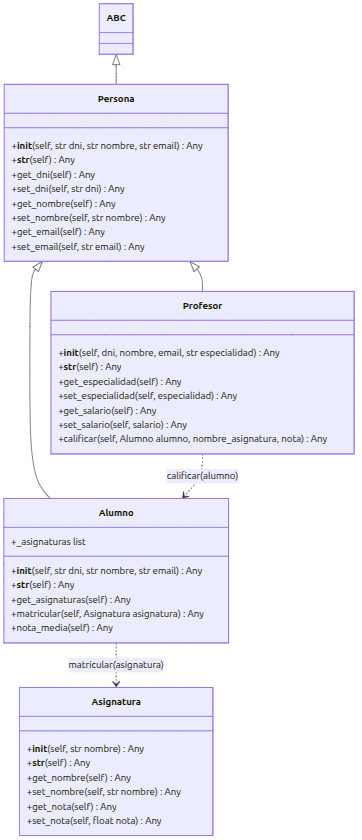
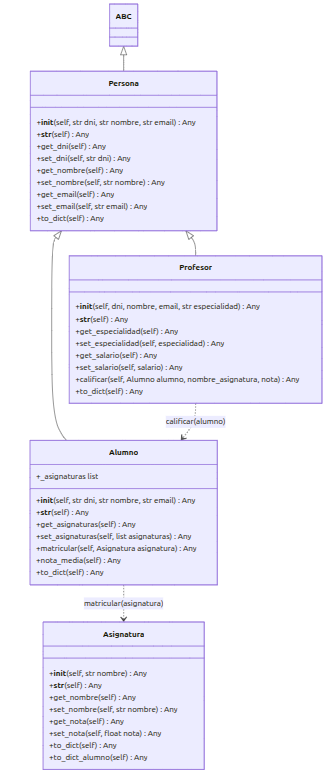
documentar aplicacion

Changed region(s): [[0.0, 0.0, 0.991, 1.0]]

diff --git a/README.md b/README.md
@@ -1,45 +1,93 @@
 # Sistema de Gestión de un Centro Educativo
 
 ## Descripción del proyecto
-Esta aplicación es un Sistema de Gestión de un Centro Educativo desarrollado en Python. Su objetivo principal es modelar de forma progresiva la lógica de negocio de una institución escolar, permitiendo administrar tanto al personal docente como al alumnado.
+Esta aplicación es un **Sistema de Gestión de un Centro Educativo** desarrollado en **Python**. Su objetivo principal es modelar de forma progresiva la lógica de negocio de una institución escolar, permitiendo administrar tanto al personal docente como al alumnado.
 El sistema destaca por las siguientes funcionalidades implementadas en esta primera fase:
 - Gestión de usuarios: Permite la creación y almacenamiento de objetos Alumno y Profesor dentro de un contenedor centralizado (CentroEducativo).
+- Gestión de Asignaturas: Los alumnos pueden ser matriculados y es posible asignar o modificar sus calificaciones de forma dinámica.
 - Modelo de Herencia y Polimorfismo: Utiliza una clase base abstracta Persona de la que heredan los distintos roles, permitiendo un tratamiento unificado de los datos pero con comportamientos específicos para cada tipo de usuario (por ejemplo, en su representación de texto __str__).
 - Gestión Académica:
   * Matriculación: Los alumnos pueden ser matriculados en diferentes asignaturas.
   * Calificación: El sistema permite asignar notas a los alumnos validando que se encuentre la nota en el rango de 0 a 10 y debe ser realizada por el profesor con la especialidad en esa asignatura.
 - Sistema de Validación Robusto: 
-  * Control estricto de **DNIs** (formato 8 números + 1 letra).
-  * Validación de rango de **calificaciones** (0-10).
-- Gestión de Excepciones: Implementación de errores personalizados (`DatoInvalido`, `Duplicado`) que permiten al programa continuar su ejecución ante datos corruptos o entradas duplicadas, informando del error por consola.
-- Obtencion de estadisticas: en base a los datos almacenados podemos obtener estadisticas del centro:
-  * Total de usuarios (profesores y alumnos)
-  * Numero de profesores
-  * Numero de alumnos
-  * Nota media global del centro
+  * Control estricto de DNIs (formato 8 números + 1 letra).
+  * Validación de rango de calificaciones (0-10).
+- Gestión de Excepciones: Implementación de errores personalizados (`DatoInvalido`, `Duplicado`,`IntegridadDatos`) que permiten al programa continuar su ejecución ante datos corruptos, entradas duplicadas, integridad de datos en memoria informando del error por consola.
+- Persistencia de Datos: Los datos de alumnos, profesores y asignaturas se almacenan en ficheros JSON, permitiendo que la información se mantenga entre distintas ejecuciones del programa.
+- Operaciones CRUD Completas: Se ha implementado la capacidad de Crear, Leer, Actualizar y Borrar tanto para el personal docente como para el alumnado.
+- Sistema de Logging: Registro automático de cada operación (altas, bajas, errores) en el archivo escuela.log, incluyendo marca de tiempo y estado de la tarea.
 
 ## Arquitectura y Modelo de Clases (UML)
 ![Diagrama modelos](images/modelos.png)
 
-![Diagrama centro educativo](images/CentroEducativo.png)
+![Diagrama common](images/common.png)
+
+![Diagrama gestor ficheros](images/gestorFicheros.png)
+
+![Diagrama registro de logs](images/registrar.png)
+
+![Diagrama centro educativo](images/centroEducativo.png)
+
+![Diagrama interfaz consola](images/interfazConsola.png)
 
 ## Estructura del proyecto
-```text
-gestion_escolar-python/
-├── escuela/                 # Paquete principal (Lógica de negocio)
-│   ├── __init__.py          # Facilita las importaciones del paquete
-│   ├── modelos.py           # Definición de Persona, Alumno, Profesor y Asignatura
-│   ├── gestion.py           # Clase CentroEducativo
-│   └── common.py            # Utilidades (validaciones, factorías, excepciones)
-└── main.py                  # Script de prueba y ejecución (fuera del paquete)
+```
+└── 📁gestion-escolar-python
+    └── 📁app
+        ├── __init__.py           # Facilita las importaciones del paquete
+        ├── interfaz_usuario.py   # Gestor logica visual y conexion a centro educativo
+    └── 📁datos                   # Paquete de Json's de almacenamiento en memoria datos
+        ├── alumnos.json
+        ├── asignaturas.json
+        ├── profesores.json
+    └── 📁escuela
+        ├── __init__.py           # Facilita las importaciones del paquete
+        ├── common.py             # Utilidades (validaciones, factorías, excepciones)
+        ├── ficheros.py           # Gestor de ficheros json
+        ├── gestion.py            # Clase CentroEducativo
+        ├── modelos.py            # Definición de Persona, Alumno, Profesor y Asignatura
+        ├── registrar.py
+    └── 📁images                  # Imagenes documentacion
+    ├── .gitignore
+    ├── escuela.log               # Logs de la aplicacion
+    ├── main.py                   # Script de prueba y ejecución
+    └── README.md                 # Documentación de la aplicación
 ```
 
 ## Tecnologías Aplicadas:
 * **Herencia y Polimorfismo**: Uso de clases abstractas para `Persona` y especialización de comportamientos en subclases.
 * **Encapsulamiento**: Protección de atributos sensibles y acceso mediante decoradores o métodos getter/setter.
+* **Tratamiento de excepciones personalizadas**: Implementación de un sistema de control de errores mediante clases de excepción propias (DatoInvalido, Duplicado, IntegridadDatos).
+* **Persistencia de datos (JSON)**: Implementación de almacenamiento no volátil mediante la serialización y deserialización de objetos en formato JSON.
+* **Gestión de logs**: registro de operaciones realizadas.
+
+## Gestión de Persistencia
+El sistema utiliza la clase GestorFicheros para la persistencia de los datos en el disco duro en formato ficheros JSON evitando la perdida de estos ante paradas de la aplicación.
+
+![JSON](images/json.png)
+
+Los datos de la aplicación serán guardados en memoria en tres ficheros dentro del directorio datos (`alumnos.json`, `profesores.json`y `asignaturas.json`) los cuales seran creados si no existen sin afectar al funcionamiento de la aplicación.
+
+  - Lectura: Al iniciar, el sistema instancia los objetos Alumno, Profesor y Asignatura a partir de los diccionarios almacenados en los JSON alumnos.json, .
+  - Escritura: Mediante el método to_dict() en los modelos, los objetos se serializan para ser guardados de nuevo en formato JSON cada vez que se produce una modificación en los datos de la apliación.  
+  - Seguridad: Si los archivos de datos no existen, el sistema los crea automáticamente para evitar interrupciones en la ejecución.
+  - Verificación datos: cuando se sale de la aplciación se verifica que los datos registrados en memoria (archivos json) coincide con los datos de la aplicación dando la posibilidad de rectificarlos o forzar el cierre de la aplicación asumiendo la perdida de datos no coincidentes con los ficheros json.
+
+## Registro de Actividad (Logs)
+El sistema emplea la clase Registrar para documentar cada acción relevante en escuela.log con el siguiente formato:  
+
+[FECHA Y HORA] - [TAREA] - [ESTADO]
+
+Ejemplos:
+``` 
+[2026-05-02 13:30:48] TAREA: Alta alumno | ESTADO: Alumno con dni '33333333C' dado de alta correctamente
+[2026-05-02 13:30:58] TAREA: Alta profesor | ESTADO: ERROR: Usuario con dni: '33333333A'-> Ya existe en el centro
+```
 
 ## Tutorial de uso
 - **Requisitos**: Python version 3.xx
+- **Clonar repositorio** ```https://github.com/RubenToucedaPRO/gestion-escolar-python```
+- **Situarse en la rama correspondiente**
 - **Ejecucion**: existen dos formas de ejecutar la aplicacion:
     * Opcion 1: Ejecutar el fichero main.py en VsCode
     * Opcion 2: Ejecutar desde la terminal en el directorio raiz del proyecto 'python main.py'
